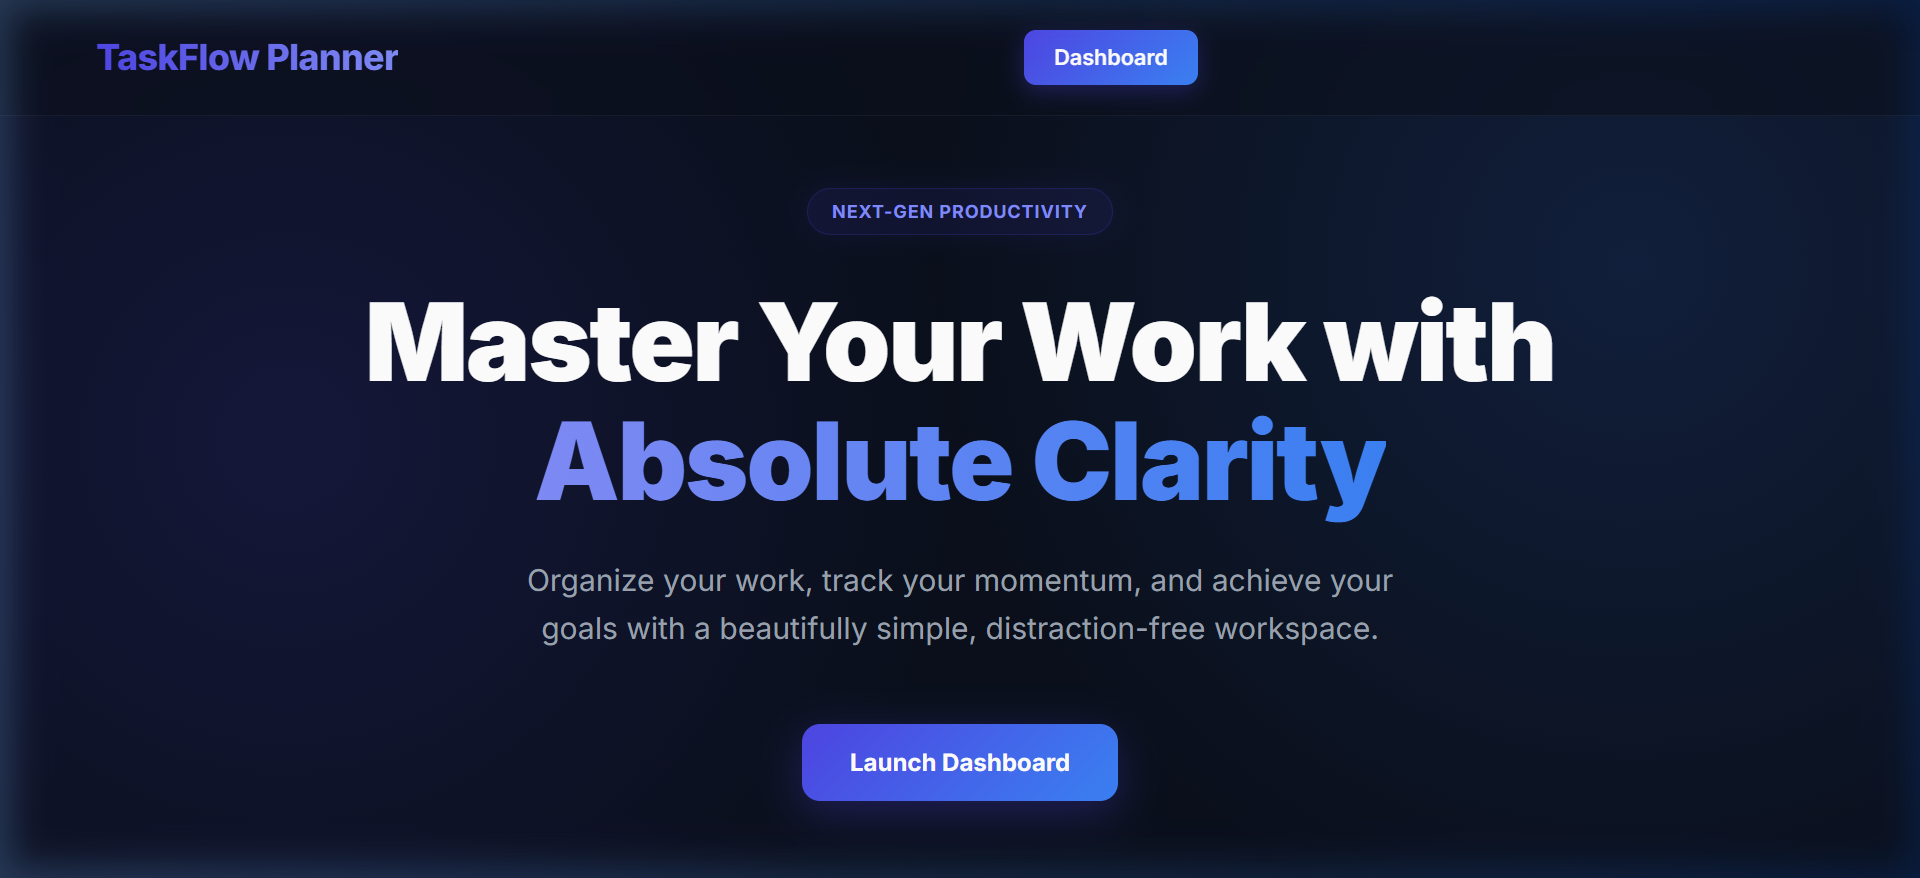
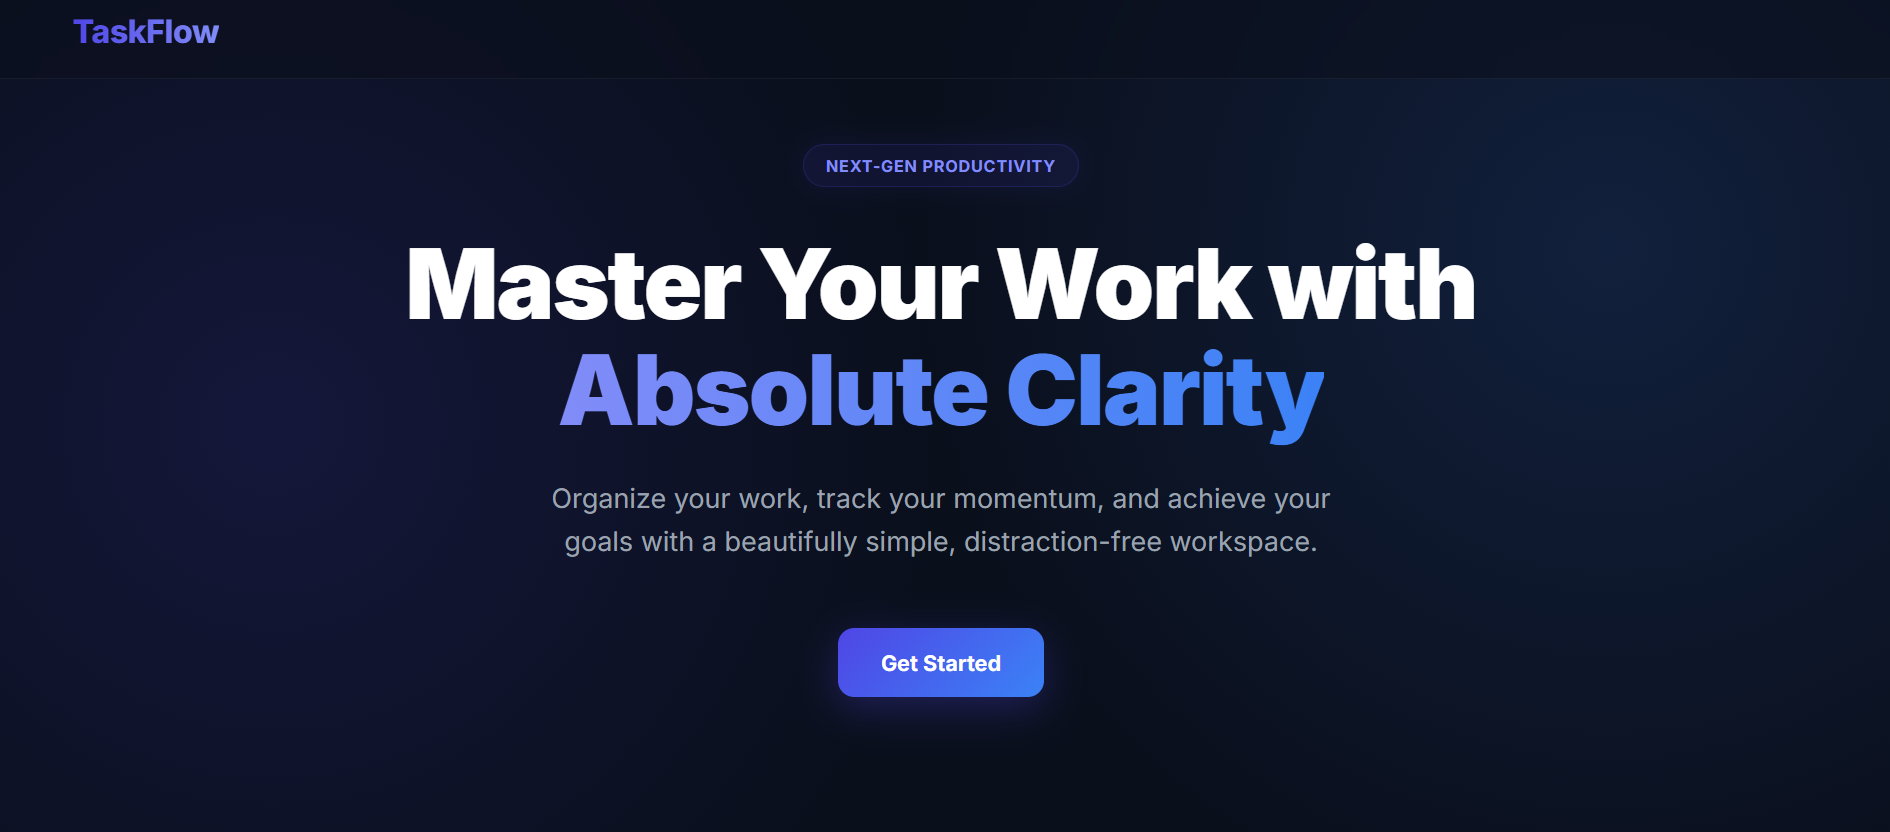
Configure Vercel deployment and update project documentation with new features and assets

diff --git a/README.md b/README.md
@@ -1,5 +1,5 @@
 <p align="center">
-  <img src="docs/screenshots/landing.png" alt="TaskFlow Banner" width="100%" />
+  <img src="docs/screenshots/landing_new.png" alt="TaskFlow Banner" width="100%" />
 </p>
 
 <h1 align="center">⚡ TaskFlow</h1>
@@ -29,7 +29,9 @@
 
 ## 🎯 What is TaskFlow?
 
-**TaskFlow** is a production-ready task management application designed for individual developers and professionals who want to organize their work with clarity. Unlike generic to-do apps, TaskFlow is purpose-built around developer workflows — with features like **Jira ticket linking**, **Git branch tracking**, **multi-stage checklists**, and **task dependency mapping**.
+**TaskFlow** is a premium, full-stack task management platform designed for developers and professionals who demand **absolute clarity** in their workspace. Built with a high-end "Void Blue" aesthetic, it combines the powerful organization features of enterprise tools like Jira with the friction-less speed of a modern React SPA.
+
+Track your momentum with **interactive dashboards**, visualize your sprint on the **calendar**, and manage your workflow with a buttery-smooth **drag-and-drop Kanban board**.
 
 > **🔗 Live Demo:** [trytaskflow.vercel.app](https://trytaskflow.vercel.app)
 
@@ -37,11 +39,11 @@
 
 ## ✨ Features
 
-### 🔐 Authentication & Security
+### 🔐 Authentication & Profile
 - JWT-based authentication with secure token management
-- Password hashing with Bcrypt
-- Protected routes with automatic session restoration
-- Per-user data isolation — your tasks are 100% private
+- **Personalized Profile**: Update name, email, and security settings
+- **Password Management**: Secure hashing with Bcrypt and "Show Password" toggles
+- **Privacy First**: Secure account deletion with cascading data removal
 
 ### 📋 Task Management
 - Full **CRUD operations** — create, read, update, delete tasks
@@ -56,16 +58,16 @@
 - Visual progress tracking per task
 - Drag-and-drop reordering
 
-### 🔗 Task Dependencies
-- Link related tasks together
-- Visualize which tasks block others
-- Dependency status tracking (see if blocking tasks are completed)
+### 📋 Kanban Board & Workflows
+- **Drag-and-Drop Kanban**: Buttery-smooth status management using `@hello-pangea/dnd`
+- **4-Column View**: To Do, In Progress, Completed, and Blocked stages
+- **Optimistic Updates**: Zero-latency UI — cards snap to columns while the DB updates silently
+- **Visual Hierarchy**: Priorities and types instantly identifiable at a glance
 
 ### 📊 Dashboard Analytics
-- At-a-glance stats: total, in-progress, completed, overdue tasks
-- Checklist completion rate with progress bars
-- Task completion percentage
-- Quick access to active tasks
+- **Clickable Stats**: Tap on Total, In Progress, or Overdue cards to instantly filter your task feed
+- **Dynamic Indicators**: Real-time checklist completion rates and progress tracking
+- **Overdue Detection**: Advanced timezone-aware logic for tracking missed deadlines
 
 ### 📅 Calendar View
 - Interactive monthly/weekly calendar powered by FullCalendar.js
@@ -93,9 +95,21 @@
 ## 📸 Screenshots
 
 <details>
-<summary><strong>🏠 Landing Page</strong> — Click to expand</summary>
+<summary><strong>🏠 Landing Page</strong> — Master Your Work with Absolute Clarity</summary>
 <br />
-<img src="docs/screenshots/landing.png" alt="Landing Page" width="100%" />
+<img src="docs/screenshots/landing_new.png" alt="Landing Page" width="100%" />
+</details>
+
+<details>
+<summary><strong>📋 Kanban Board</strong> — Frictionless status management</summary>
+<br />
+<img src="docs/screenshots/kanban.png" alt="Kanban Board" width="100%" />
+</details>
+
+<details>
+<summary><strong>📊 Interactive Dashboard</strong> — Data-driven focus</summary>
+<br />
+<img src="docs/screenshots/dashboard_new.png" alt="Dashboard" width="100%" />
 </details>
 
 <details>
@@ -264,8 +278,9 @@ All endpoints (except auth) require a valid JWT token in the `Authorization: Bea
 TaskFlow/
 ├── backend/
 │   ├── app.py                 # Flask app, models, and all API routes
-│   ├── requirements.txt       # Python dependencies
-│   └── vercel.json            # Vercel serverless config
+│   └── requirements.txt       # Python dependencies
+│
+├── vercel.json                # Root deployment & cache optimization config
 │
 ├── frontend/
 │   ├── src/
@@ -278,6 +293,8 @@ TaskFlow/
 │   │   │   ├── TaskList.jsx   # Task list with search & filters
 │   │   │   ├── TaskDetail.jsx # Task detail with checklist & deps
 │   │   │   ├── CalendarView.jsx # FullCalendar integration
+│   │   │   ├── KanbanBoard.jsx  # Drag-and-drop board
+│   │   │   ├── ProfilePage.jsx  # User account & security portal
 │   │   │   ├── LandingPage.jsx  # Public landing page
 │   │   │   ├── LoginPage.jsx    # Authentication - login
 │   │   │   └── RegisterPage.jsx # Authentication - register
@@ -312,13 +329,13 @@ TaskFlow/
 
 ## 🗺 Roadmap
 
-- [ ] Drag & Drop Kanban Board
+- [x] Drag & Drop Kanban Board
 - [ ] Task Analytics with Charts (Recharts)
 - [ ] Database Migrations with Alembic
 - [ ] Export to CSV/JSON
-- [ ] Profile Page & User Settings
+- [x] Profile Page & User Settings
 - [ ] Toast Notification System
-- [ ] Unit & Integration Tests
+- [ ] Unit & Integration Tests (Vitest)
 - [ ] CI/CD Pipeline with GitHub Actions
 
 ---
